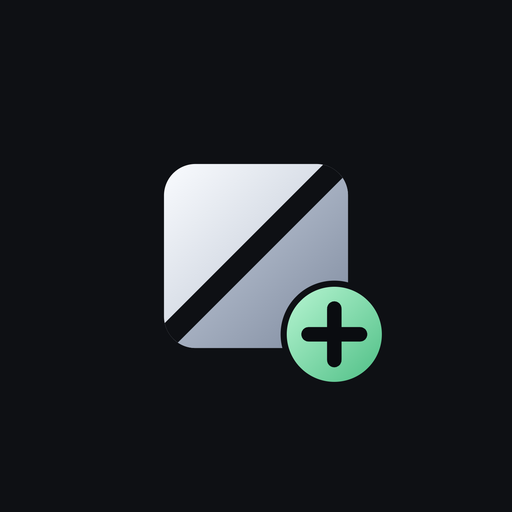
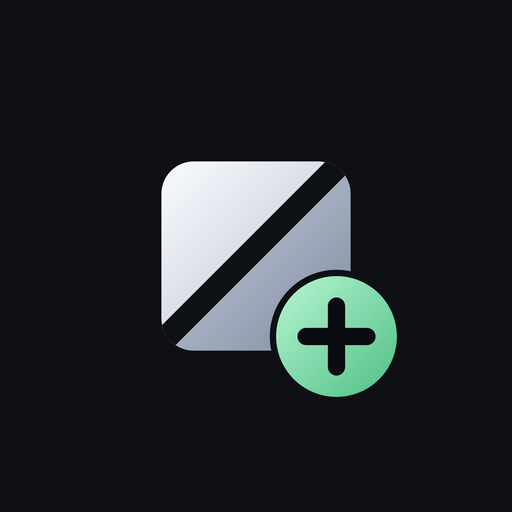
v1.66.9: balanced plus badge size

Changed region(s): [[0.3438, 0.3438, 0.7812, 0.7812], [0.3125, 0.3125, 0.625, 0.625]]

diff --git a/game_tracker.py b/game_tracker.py
@@ -4730,7 +4730,7 @@ class Handler(http.server.BaseHTTPRequestHandler):
         p = self.path.split("?")[0]
         # health — без пароля: для uptime-моніторингу (жодних даних не віддає)
         if p == "/api/health":
-            self._json({"ok": True, "version": "1.66.8", "uptime": int(time.time() - _START_TS)})
+            self._json({"ok": True, "version": "1.66.9", "uptime": int(time.time() - _START_TS)})
             return
         if p in ("/api/license/register", "/api/license/release"):
             pass  # licensing endpoint: public, protected by the key signature
@@ -5390,7 +5390,7 @@ self.addEventListener('notificationclick', e => { e.notification.close(); client
                     return os.path.getsize(path)
                 except Exception:
                     return 0
-            self._json({"ok": True, "version": "1.66.8",
+            self._json({"ok": True, "version": "1.66.9",
                         "uptime": int(time.time() - _START_TS),
                         "counts": {"purchases": len(_read_json(PL_FILE, []) or []),
                                    "eldorado": len(_read_json(ED_FILE, []) or []),
@@ -7956,7 +7956,7 @@ def main():
         return 3
 
     print("=" * 60)
-    print("  ▲  Ledger v1.66.8")
+    print("  ▲  Ledger v1.66.9")
     print("  📊 " + _cl("Угоди · Канали · Склад · Аналітика · Бекапи",
                         "Deals · Channels · Stock · Analytics · Backups",
                         "Сделки · Каналы · Склад · Аналитика · Бэкапы"))

diff --git a/CHANGELOG.md b/CHANGELOG.md
@@ -1,5 +1,9 @@
 # Changelog
 
+## v1.66.9 — balanced plus badge
+- Badge radius set to 10.5 (between the clipped 14 and the too-small 8.5), moved to (46,46); iOS 180 at 86% scale, maskable at 72%.
+- Validated: 0 clipped pixels against iOS squircle and Android circle masks.
+
 ## v1.66.8 — smaller Ledger+ badge
 - Redesigned Ledger+ mark: the green plus badge is smaller and moved inward; content stays within 80% of the canvas on iOS and inside the Android maskable safe circle.
 - New full-bleed SVG/PNG/ICO assets; iOS 180 at 85%, PWA any 85%, maskable 70%.
